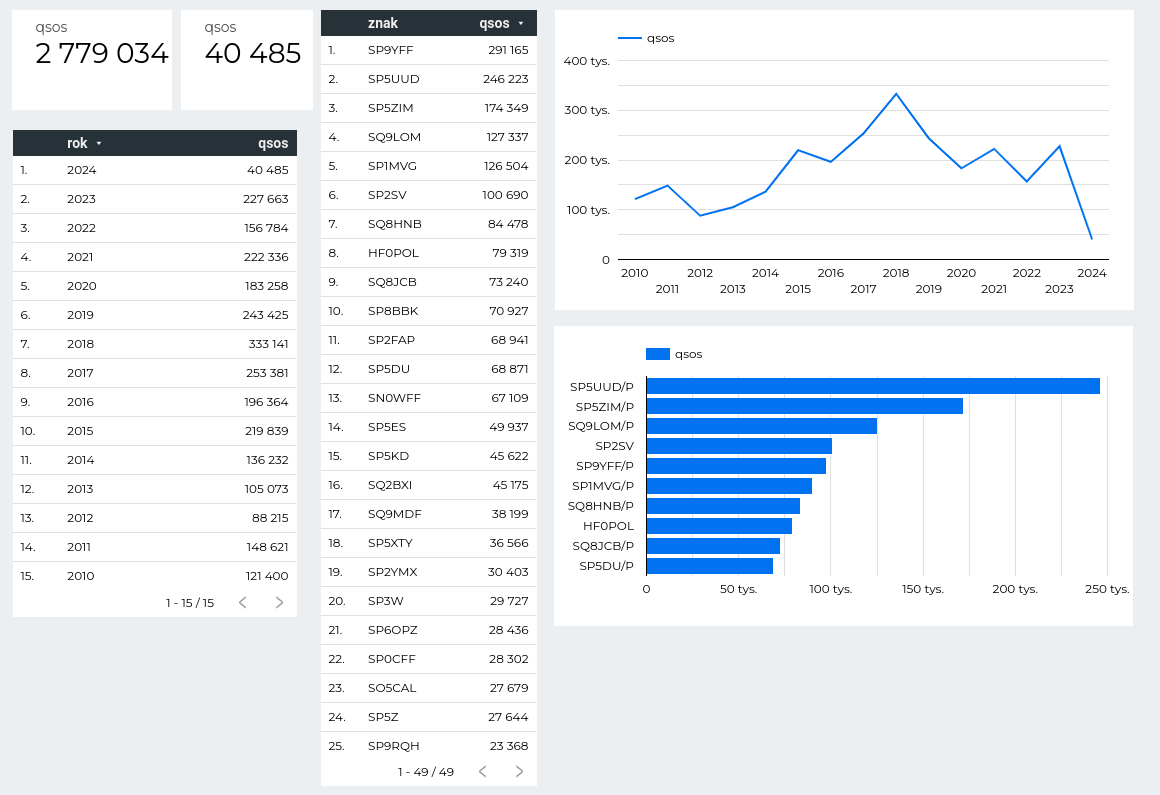
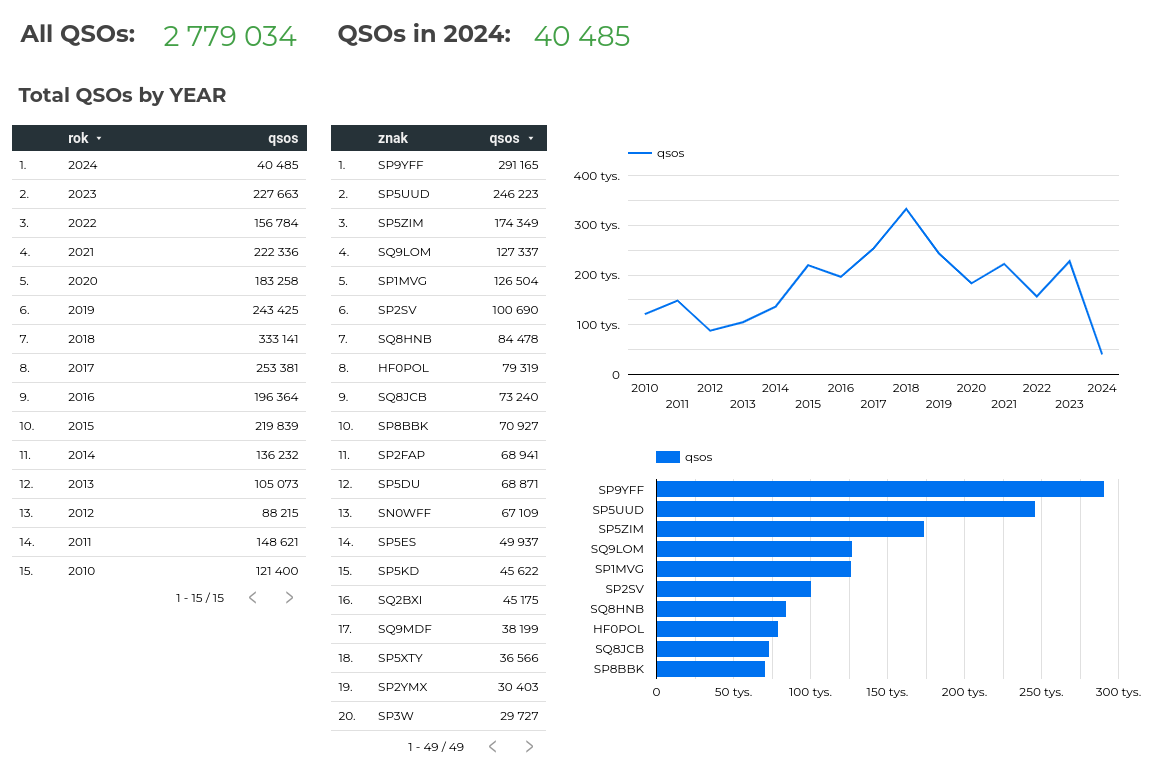
SYNC README

diff --git a/README.md b/README.md
@@ -79,7 +79,7 @@ Spcff.pl is the website of the Polish WWFF diploma program. This is a register o
 
 
 
-## First charts made by Data/Look Studio.
+## First charts made by Data/Look Studio -> [link](https://lookerstudio.google.com/s/iMUVwbUlJrk).
 ![Charts01](https://github.com/mik19821/dezoomcamp2024-project/blob/main/img/multichart01.png)
 
 
